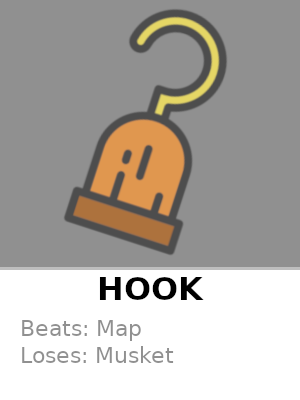
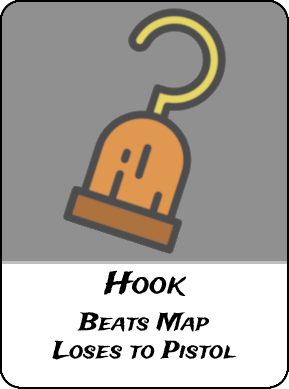
Updated Minigame Assets

Changed region(s): [[0.0, 0.0, 1.0, 0.9871], [0.0623, 0.8021, 0.8097, 0.9254], [0.0311, 0.9871, 0.9654, 1.0]]

diff --git a/pi-rates/core/src/display/MinigameScreen.java b/pi-rates/core/src/display/MinigameScreen.java
@@ -57,7 +57,7 @@ public class MinigameScreen extends BaseScreen {
 	public MinigameScreen(GameManager game){
 		super(game);
 
-		Texture backgroundTex = new Texture("battleBackground.png");
+		Texture backgroundTex = new Texture("menuBackground.png");
 		Image backgroundImg = new Image(backgroundTex);
 		backgroundImg.setSize(viewwidth, viewheight);
 		stage.addActor(backgroundImg);
@@ -70,12 +70,12 @@ public class MinigameScreen extends BaseScreen {
 		table.setFillParent(true);
 		stage.addActor(table);
 
-		ImageButton musket = createImageButton("musket.png", 0);
+		ImageButton pistol = createImageButton("pistol.png", 0);
 		ImageButton map = createImageButton("map.png", 1);
 		ImageButton hook = createImageButton("hook.png", 2);
 
 		table.row();
-		table.add(musket);
+		table.add(pistol);
 		table.add(map).pad(0, viewwidth/15, 0, viewwidth/15);
 		table.add(hook);
 
